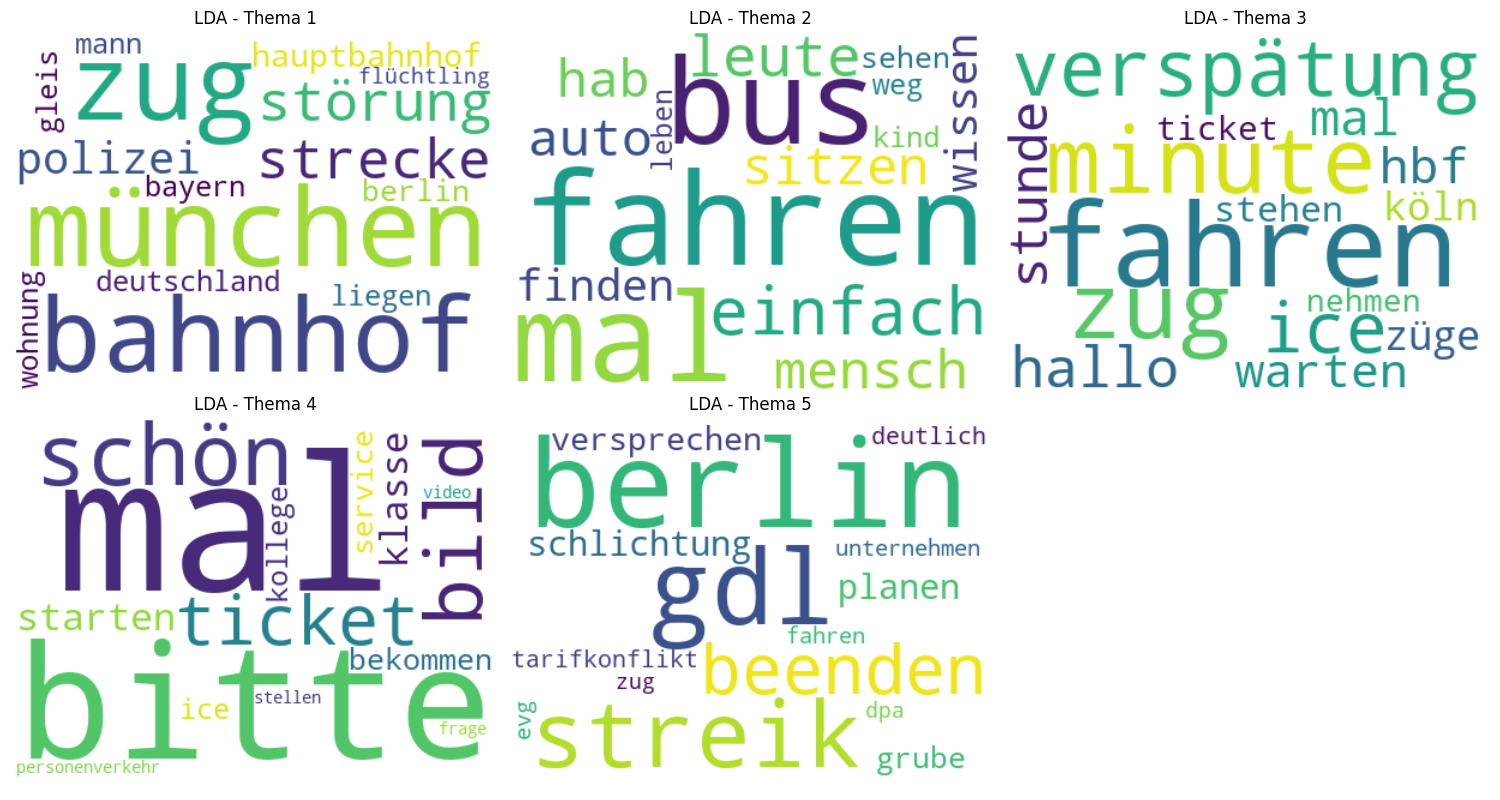
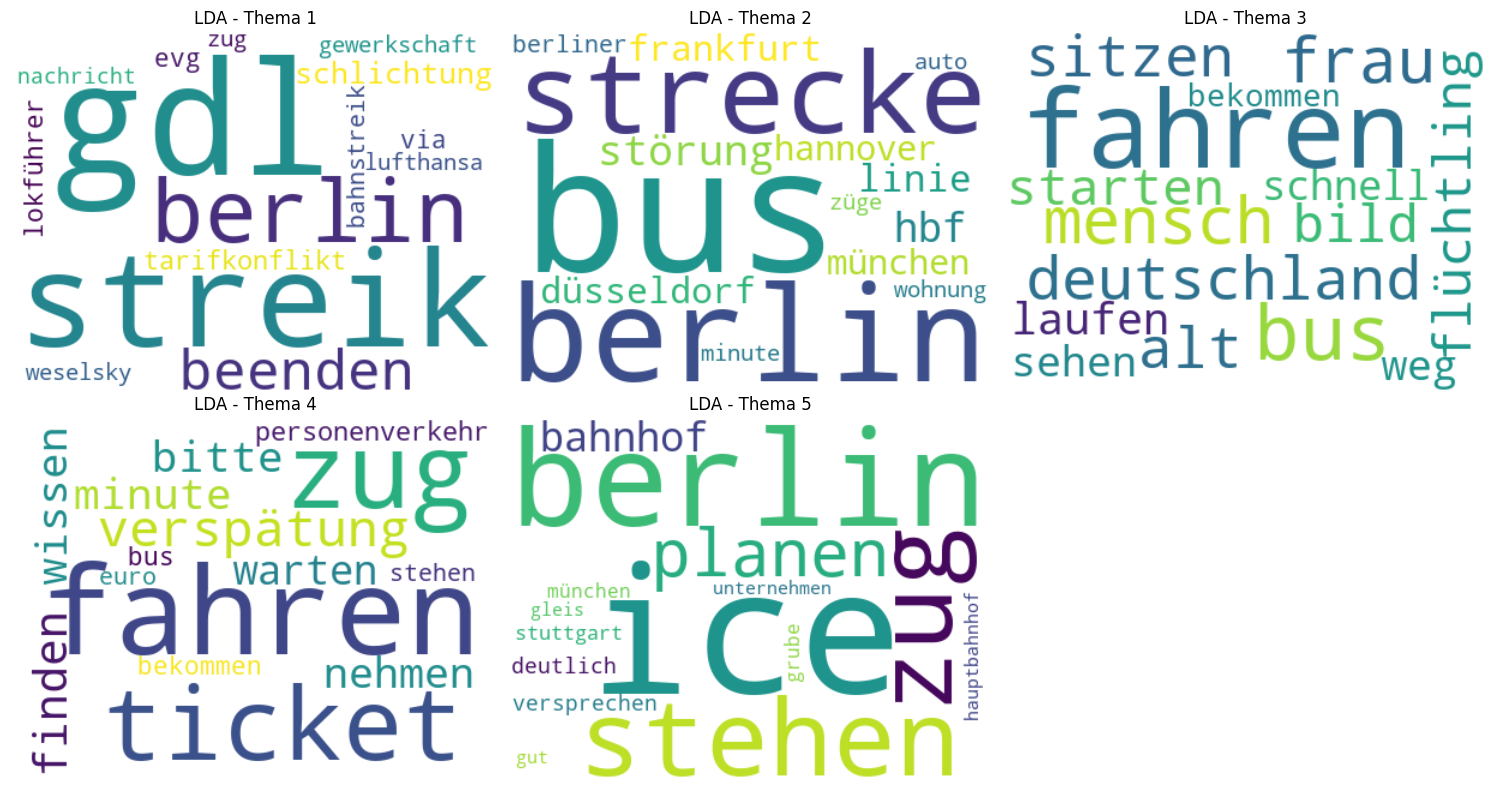
Ergänzung von Stoppwörtern

diff --git a/src/vectorization.py b/src/vectorization.py
@@ -1,6 +1,7 @@
 from sklearn.feature_extraction.text import CountVectorizer, TfidfVectorizer
 
-EXTRA_STOPWORDS = ["deutsch", "deutsche", "deutschen", "bahn", "db"]
+EXTRA_STOPWORDS = ["deutsch", "deutsche", "deutschen", "bahn", "db", "mal", "gutefrage", "net", "nen", "hab", 
+                   "hallo", "einfach", "eigentlich", "umsonst", "letzter", "nächster", "normal", "sogar"]
 
 
 # Erstellung der Bag of Words Matrix
